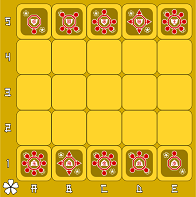
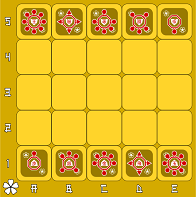
Migi Shogi (setup fixed)

diff --git a/src/migration/1596108130561-game.ts b/src/migration/1596108130561-game.ts
@@ -387,6 +387,8 @@ export class game1596108130561 implements MigrationInterface {
         await queryRunner.query(`insert into game_styles(id, variant_id, name, suffix, player_num) values(27, 257, 'European', '', null)`);
         await queryRunner.query(`insert into game_styles(id, variant_id, name, suffix, player_num) values(28, 263, 'Chinese', '', null)`);
         await queryRunner.query(`insert into game_styles(id, variant_id, name, suffix, player_num) values(29, 275, 'Japanese', '', null)`);
+        await queryRunner.query(`insert into game_styles(id, variant_id, name, suffix, player_num) values(30, 327, 'Japanese', '', null)`);
+        await queryRunner.query(`insert into game_styles(id, variant_id, name, suffix, player_num) values(31, 328, 'Japanese', '', null)`);
 
         await queryRunner.query(`insert into game_bots(id, game_id, variant_id, selector_value, player_num) values(1, 35, 50, null, null)`);
         await queryRunner.query(`insert into game_bots(id, game_id, variant_id, selector_value, player_num) values(2, 31, null, null, null)`);

diff --git a/public/dagaz/scripts/migi-shogi.js b/public/dagaz/scripts/migi-shogi.js
@@ -372,16 +372,16 @@ Dagaz.Model.BuildDesign = function(design) {
     design.addMove(8, 9, [7], 0);
     design.addMove(8, 1, [0, 8], 1);
 
-    design.setup("South", "King", 20);
-    design.setup("South", "Rook", 21);
+    design.setup("South", "King", 24);
+    design.setup("South", "Rook", 23);
     design.setup("South", "Gold", 22);
-    design.setup("South", "Silver", 23);
-    design.setup("South", "Pawn", 24);
-    design.setup("North", "King", 4);
-    design.setup("North", "Rook", 3);
+    design.setup("South", "Silver", 21);
+    design.setup("South", "Pawn", 20);
+    design.setup("North", "King", 0);
+    design.setup("North", "Rook", 1);
     design.setup("North", "Gold", 2);
-    design.setup("North", "Silver", 1);
-    design.setup("North", "Pawn", 0);
+    design.setup("North", "Silver", 3);
+    design.setup("North", "Pawn", 4);
 }
 
 Dagaz.View.configure = function(view) {
